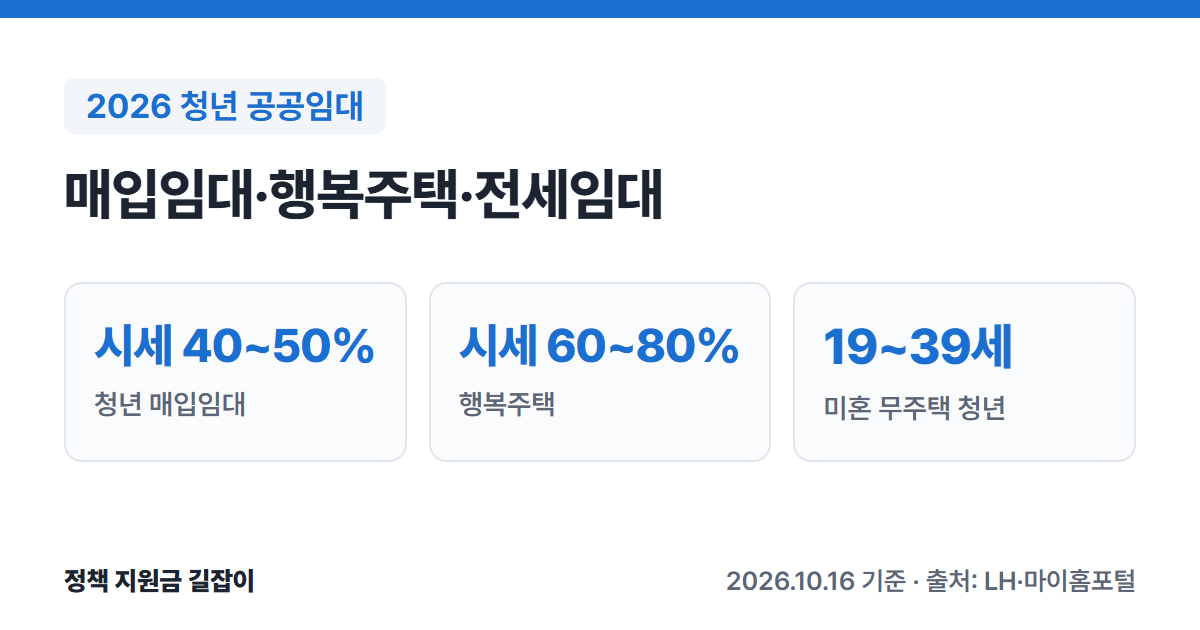
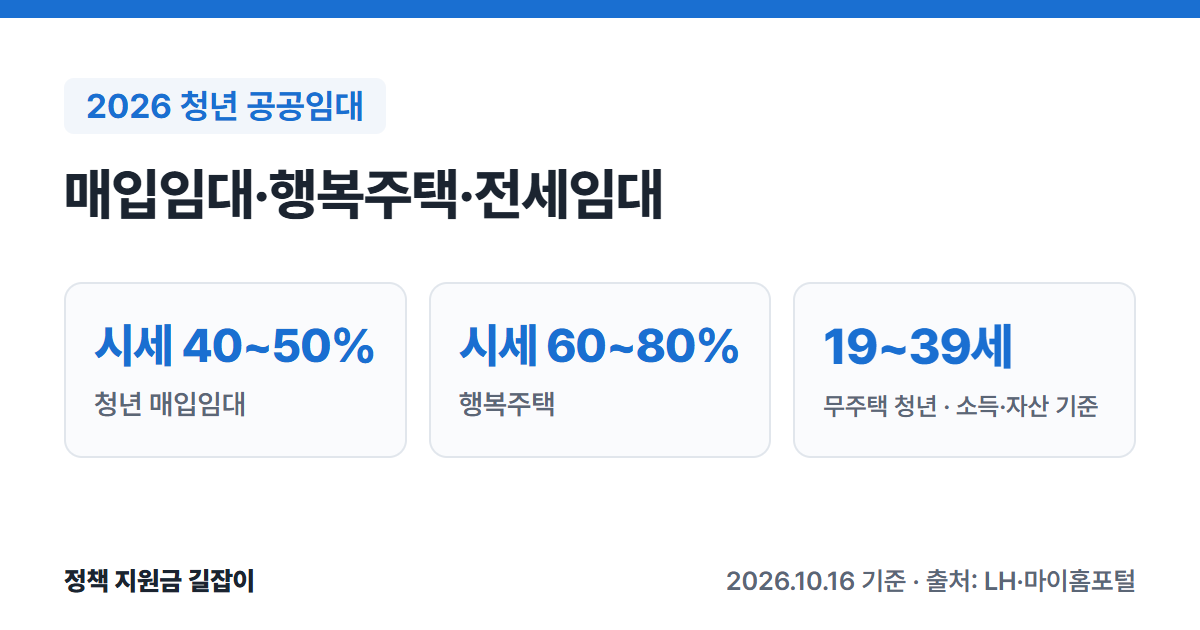
청년 공공임대: 미혼 요건을 LH 안내 범위(매입임대·행복주택·기숙사형)로 바로잡기

diff --git a/_tools/card.html b/_tools/card.html
@@ -224,7 +224,7 @@ const cards = {
   "youth-public-rental-2026": {
     label: "2026 청년 공공임대",
     title: "매입임대·행복주택·전세임대",
-    stats: [["시세 40~50%", "청년 매입임대"], ["시세 60~80%", "행복주택"], ["19~39세", "미혼 무주택 청년"]],
+    stats: [["시세 40~50%", "청년 매입임대"], ["시세 60~80%", "행복주택"], ["19~39세", "무주택 청년 · 소득·자산 기준"]],
     foot: "2026.10.16 기준 · 출처: LH·마이홈포털"
   }
 };
